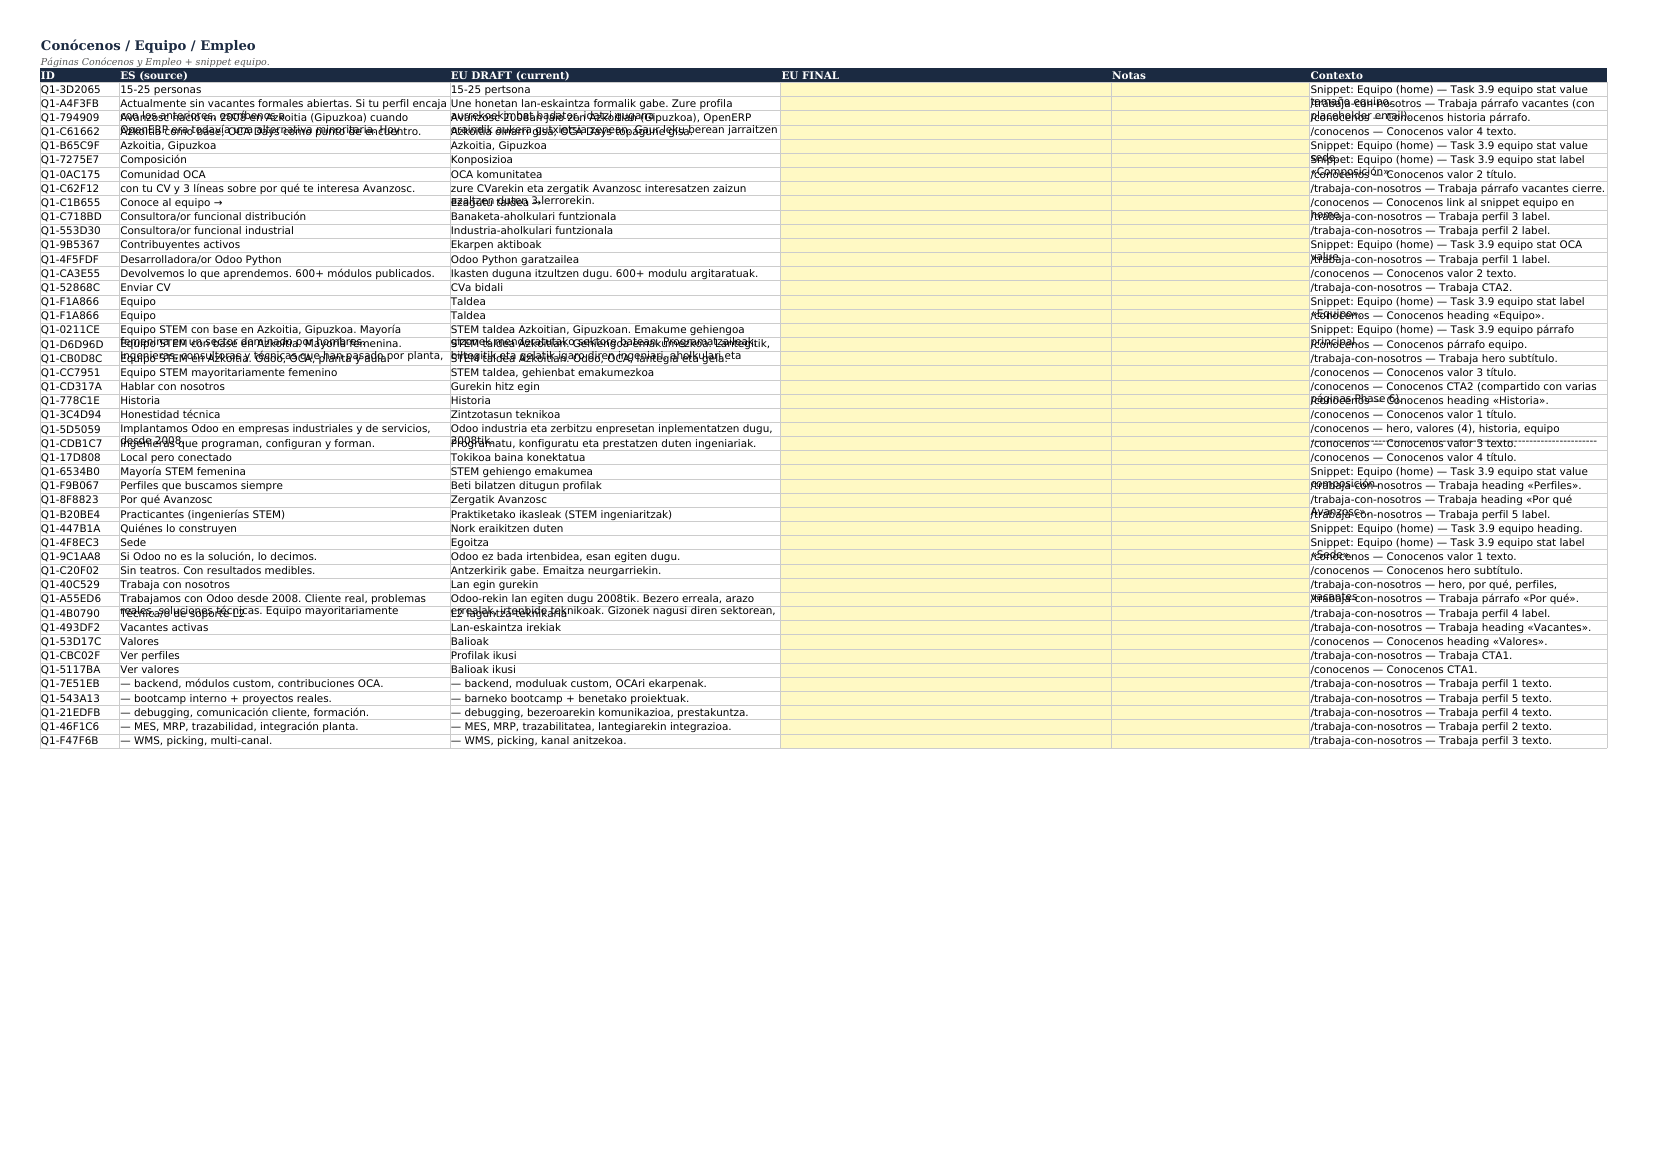
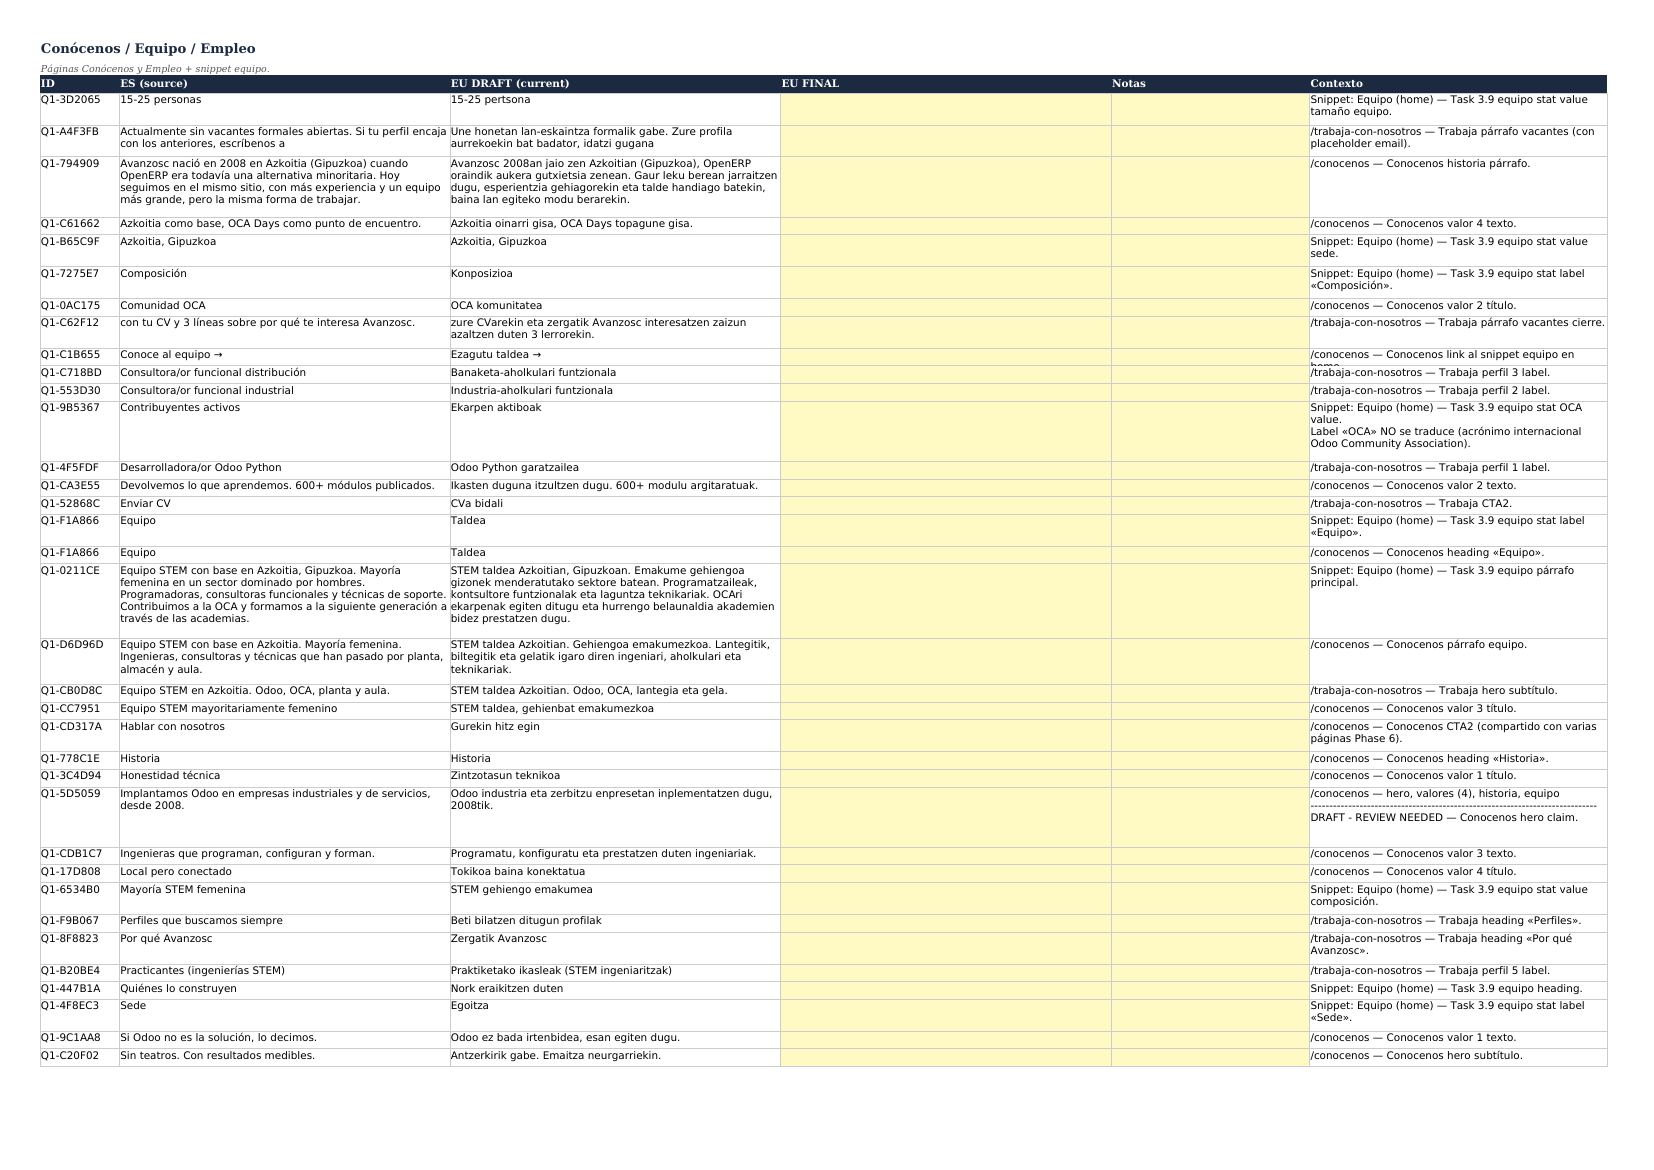
[FIX] q1: row heights calculated to prevent text overlap in EU validation XLSX
Diagnóstico previo (sesión 2026-04-30) confirmó que el XLSX entregable
tenía text overlap natural — no artefacto del fit-to-1-page-wide. Causa:
openpyxl deja row_dimensions[N].height = None por default y wrapText=True
NO auto-calcula altura. LibreOffice/Excel renderizan con default ~15pt y
el texto wrapped desborda detrás de la fila siguiente.

Casos extremos en el XLSX previo:
  Soluciones col F   917 chars en celda → 1 línea visible, ~16 ocultas
  Conócenos col C    283 chars en celda → 1 línea visible, ~4 ocultas
  INSTRUCCIONES col B 310 chars en celda → 1 línea visible, ~2 ocultas

docs/q1-eu-validation/tools/gen_q1_xlsx.py: nuevo helper compute_row_height
+ constantes LINE_HEIGHT_PT=15, PADDING_PT=4, PROPORTIONAL_FACTOR=1.2.
Para cada fila escrita (sheet INSTRUCCIONES y 7 sheets de bloque):
  - Calcula effective_width = col_width_chars * 1.2 (compensa fuentes
    proporcionales tipo Inter/Calibri vs cálculo monospace).
  - textwrap.wrap por celda + cuenta saltos '\n' explícitos.
  - row.height = max_lines * 15 + 4 pt.

Sample heights post-fix:
  Empty/short rows         19 pt (1 línea, mínimo)
  2-line wrap              34 pt
  Conócenos r6 (211ch)     64 pt (4 líneas)
  INSTRUCCIONES r6 (253ch) 49 pt (3 líneas)
  Soluciones col F 917ch  394 pt (~26 líneas, máximo del XLSX)

Ningún row.height >500pt (sanity check). Verificación visual sobre las 8
PNGs: overlap eliminado en INSTRUCCIONES, Conócenos, Soluciones. Filas
[…]

Changed region(s): [[0.0, 0.0308, 0.9867, 0.9231]]

diff --git a/docs/q1-eu-validation/tools/gen_q1_xlsx.py b/docs/q1-eu-validation/tools/gen_q1_xlsx.py
@@ -64,6 +64,7 @@ fallback `B8_OTROS` (que el revisor verá como pestaña separada).
 """
 import hashlib
 import sys
+import textwrap
 
 import polib
 from openpyxl import Workbook
@@ -72,6 +73,22 @@ from openpyxl.utils import get_column_letter
 
 PO_PATH = '/opt/odoo/v14/workspace/website_avanzosc_demo/i18n/eu.po'
 OUT_PATH = '/opt/odoo/v14/workspace/website_avanzosc_demo/docs/q1-eu-validation/avanzosc-eu-validation-2026-04-30.xlsx'
+
+# ---------------------------------------------------------------------------
+# Row-height calculation constants (added 2026-04-30 fix to prevent text
+# overlap; openpyxl leaves row_dimensions[N].height = None by default and
+# wrapText=True does NOT auto-resize the row in OOXML — Excel/LibreOffice
+# render at default ~15pt and wrapped text overflows behind the next row).
+#
+# LINE_HEIGHT_PT: 11pt font + line-height ≈ 1.36 ≈ 15pt per visible line.
+# PADDING_PT: 4pt of breathing room (top + bottom combined).
+# PROPORTIONAL_FACTOR: monospace counting under-estimates how many chars
+# fit per line in proportional fonts (Inter/Calibri default in Excel).
+# Empirically 1.2 produces a tight fit without significant whitespace.
+# ---------------------------------------------------------------------------
+LINE_HEIGHT_PT = 15
+PADDING_PT = 4
+PROPORTIONAL_FACTOR = 1.2
 
 # Block definitions: (block_id, title, sheet_color, template_prefixes_or_keys, description)
 # Order matters: first match wins on multi-reference entries.
@@ -103,6 +120,40 @@ BLOCKS = [
 # Catch-all for entries that don't match any block above
 FALLBACK_BLOCK = ('B8_OTROS', 'Otros (sin bloque explícito)', 'EFEFEF', (),
                   'Strings cuya referencia no coincide con ningún bloque temático declarado. Revisar caso por caso.')
+
+
+def compute_row_height(cell_texts, col_widths_chars):
+    """Calculate row height in points to fit all wrapped text without overlap.
+
+    Args:
+      cell_texts: tuple of cell text strings, one per column in this row.
+      col_widths_chars: tuple of column widths in chars, same length as cell_texts.
+
+    Algorithm:
+      For each non-empty cell, count required visual lines as:
+        1 line per explicit '\\n' in text (multi-line cells like INSTRUCCIONES)
+        + lines required for wrapping each segment at effective_width chars
+      Take the maximum across all columns. Multiply by LINE_HEIGHT_PT and
+      add PADDING_PT.
+
+    Returns: float (points). Minimum LINE_HEIGHT_PT + PADDING_PT for
+    empty rows (covers spacers).
+    """
+    max_lines = 1
+    for text, col_w in zip(cell_texts, col_widths_chars):
+        text = str(text or '')
+        if not text:
+            continue
+        effective_w = max(1, int(col_w * PROPORTIONAL_FACTOR))
+        # Split on explicit newlines first, then wrap each segment.
+        segments = text.split('\n')
+        total = 0
+        for seg in segments:
+            wrapped = textwrap.wrap(seg, width=effective_w,
+                                    break_long_words=True, replace_whitespace=False)
+            total += len(wrapped) or 1
+        max_lines = max(max_lines, total)
+    return max_lines * LINE_HEIGHT_PT + PADDING_PT
 
 
 def make_id(msgid):
@@ -353,6 +404,7 @@ def write_instructions(ws, by_block, total_pending, anomaly_count):
     rows.append(('', '9. Convención del color amarillo claro', h2_font, None))
     rows.append(('', 'Las celdas con fondo amarillo claro son las que tú rellenas (EU FINAL y Notas).', fill_yellow, None))
 
+    instructions_col_widths = (4, 100)  # cols A and B widths in chars
     for i, (a, b, font, fill) in enumerate(rows, start=1):
         ws.cell(row=i, column=2, value=b)
         if font:
@@ -360,6 +412,8 @@ def write_instructions(ws, by_block, total_pending, anomaly_count):
         if fill:
             ws.cell(row=i, column=2).fill = fill
         ws.cell(row=i, column=2).alignment = Alignment(wrap_text=True, vertical='top')
+        # Calculate row height to fit wrapped text (only column B carries content here).
+        ws.row_dimensions[i].height = compute_row_height(('', b), instructions_col_widths)
 
 
 def write_block_sheet(wb, block, entries):
@@ -407,17 +461,37 @@ def write_block_sheet(wb, block, entries):
     for i, w in enumerate(widths, start=1):
         ws.column_dimensions[get_column_letter(i)].width = w
 
+    # Set heights for the title/description/banner rows that sit before the
+    # column header. Their content can be long (e.g. the LEGAL banner is one
+    # full sentence). Compute against width of column A merged across 6 cols
+    # (sum of widths = 12+50+50+50+30+45 = 237 chars).
+    merged_width_chars = sum(widths)
+    ws.row_dimensions[1].height = compute_row_height((title,) + ('',) * 5,
+                                                      (merged_width_chars,) + (0,) * 5)
+    ws.row_dimensions[2].height = compute_row_height((description,) + ('',) * 5,
+                                                      (merged_width_chars,) + (0,) * 5)
+    if block_id == 'B7_LEGAL':
+        ws.row_dimensions[3].height = compute_row_height(
+            ('⚠ ESPERAR Q3 ASESORÍA — bloque informativo, NO editar todavía',) + ('',) * 5,
+            (merged_width_chars,) + (0,) * 5)
+    # Header row needs default-ish height (column titles are short).
+    ws.row_dimensions[header_row].height = LINE_HEIGHT_PT + PADDING_PT
+
     # Sort entries by msgid for stable order
     entries_sorted = sorted(entries, key=lambda e: e.msgid.lower())
 
     # Data rows
     for row_idx, entry in enumerate(entries_sorted, start=header_row + 1):
-        ws.cell(row=row_idx, column=1, value=make_id(entry.msgid))
-        ws.cell(row=row_idx, column=2, value=entry.msgid)
-        ws.cell(row=row_idx, column=3, value=entry.msgstr)
-        ws.cell(row=row_idx, column=4, value='')
-        ws.cell(row=row_idx, column=5, value='')
-        ws.cell(row=row_idx, column=6, value=context_text(entry))
+        cell_values = (
+            make_id(entry.msgid),
+            entry.msgid,
+            entry.msgstr,
+            '',
+            '',
+            context_text(entry),
+        )
+        for col, v in enumerate(cell_values, start=1):
+            ws.cell(row=row_idx, column=col, value=v)
 
         # Yellow fill on EU FINAL + Notas
         ws.cell(row=row_idx, column=4).fill = fill_eu_final
@@ -428,6 +502,9 @@ def write_block_sheet(wb, block, entries):
             cell = ws.cell(row=row_idx, column=col)
             cell.alignment = Alignment(wrap_text=True, vertical='top')
             cell.border = border
+
+        # Calculate row height: max wrapped-line count across the 6 columns.
+        ws.row_dimensions[row_idx].height = compute_row_height(cell_values, tuple(widths))
 
     # Freeze header row
     ws.freeze_panes = ws.cell(row=header_row + 1, column=1)

diff --git a/docs/q1-eu-validation/README.md b/docs/q1-eu-validation/README.md
@@ -44,10 +44,17 @@ mergear las correcciones de vuelta a `i18n/eu.po`): ver
 ## Último entregable
 
 **Fecha**: 2026-04-30
-**Archivo**: `avanzosc-eu-validation-2026-04-30.xlsx` · 30 KB · 8 pestañas (INSTRUCCIONES + 7 bloques)
-**Preview PNGs**: [`screenshots/2026-04-30/`](screenshots/2026-04-30/) · 8 imágenes · 100 dpi A3 landscape · ~1.6 MB total
+**Archivo**: `avanzosc-eu-validation-2026-04-30.xlsx` · 8 pestañas (INSTRUCCIONES + 7 bloques)
+**Preview PNGs**: [`screenshots/2026-04-30/`](screenshots/2026-04-30/) · 8 imágenes · 100 dpi A3 landscape · ~1.7 MB total · **v2 post-fix row heights** (ver historial abajo)
 **Strings totales**: 201 (178 Q1 + 23 Q3)
 **Bloques**: ver tabla en runbook §5 — Entrega 2026-04-30.
+
+### Historial de versiones
+
+| Versión | Fecha | Commit | Cambio |
+|---|---|---|---|
+| v2 | 2026-04-30 | (post-fix) | Row heights calculadas para evitar text overlap visible en filas con strings largas (>50 chars en columnas ES/EU/Contexto). XLSX y PNGs regenerados. IDs Q1-XXXXXX estables. |
+| v1 | 2026-04-30 | `37870e7` | Versión inicial. Row heights = None (default openpyxl) → wrapText desbordaba detrás de la fila siguiente. PNGs entregadas en `350a4f0` documentaban el problema. |
 
 ## Script generador
 
